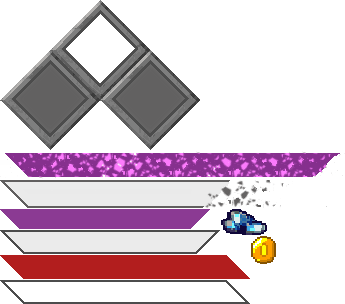
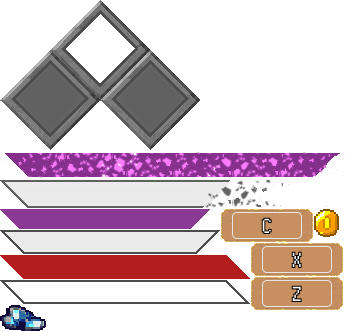
新增ZXC選擇任務、修改強化UI

diff --git a/bin/js/bundle.js b/bin/js/bundle.js
@@ -491,15 +491,8 @@
             let confirmIcon = new Laya.Button();
             confirmIcon.width = 100;
             confirmIcon.height = 50;
-            confirmIcon.loadImage("UI/chioce_mission_button_Bright.png");
             confirmIcon.pos(171 + 173 + col * (256 + 34), 458 + 96);
-            confirmIcon.on(Laya.Event.MOUSE_MOVE, this, () => {
-                confirmIcon.loadImage("UI/chioce_mission_button_Dark.png");
-            });
-            confirmIcon.on(Laya.Event.MOUSE_OUT, this, () => {
-                confirmIcon.loadImage("UI/chioce_mission_button_Bright.png");
-            });
-            confirmIcon.on(Laya.Event.CLICK, this, () => {
+            let confirmFunc = () => {
                 this.clearMissionUI();
                 this.sendMissionData(data);
                 if (Village.isNewbie) {
@@ -519,7 +512,29 @@
                         Laya.Scene.open('Loading2.scene', true);
                     }
                 }
+            };
+            switch (col) {
+                case 0:
+                    confirmIcon.loadImage("UI/Zbtn.png");
+                    break;
+                case 1:
+                    confirmIcon.loadImage("UI/Xbtn.png");
+                    break;
+                case 2:
+                    confirmIcon.loadImage("UI/Cbtn.png");
+                    break;
+                default:
+                    break;
+            }
+            confirmIcon.off(Laya.Event.CLICK && Laya.Event.KEY_DOWN, this, confirmFunc);
+            confirmIcon.on(Laya.Event.CLICK, this, confirmFunc);
+            confirmIcon.on(Laya.Event.KEY_DOWN, this, (e) => {
+                if (e.keyCode === 90 || e.keyCode === 88 || e.keyCode === 67) {
+                    console.log(data);
+                    confirmFunc();
+                }
             });
+            Laya.stage.focus = confirmIcon;
             this.confirmIcons.push(confirmIcon);
         }
         generateMissionData(total) {
@@ -581,6 +596,7 @@
     }
     MissionManager.missionRound = 0;
     MissionManager.missionDataPool = [];
+    MissionManager.hasSetBtn = false;
 
     var CharacterStatus;
     (function (CharacterStatus) {
@@ -2466,6 +2482,7 @@
             this.m_canJump = true;
             this.m_canAttack = true;
             this.m_canSprint = true;
+            this.m_sprintCdTimer = null;
             this.m_atkTimer = null;
             this.m_atkStep = 0;
             this.m_hurted = false;
@@ -2720,11 +2737,13 @@
                 };
                 this.updateSprintCdTimer();
                 Laya.stage.frameOnce(30, this, sprintDone);
-                Laya.stage.frameOnce(180, this, () => { this.m_canSprint = true; });
                 this.m_canSprint = false;
                 Laya.Tween.to(this.m_animation, { alpha: 0.35 }, 10, Laya.Ease.linearInOut, Laya.Handler.create(this, () => {
                     Laya.Tween.to(this.m_animation, { alpha: 0.35 }, 150, Laya.Ease.linearInOut, Laya.Handler.create(this, () => { this.m_animation.alpha = 1; }), 0);
                 }), 0);
+                setTimeout(() => {
+                    this.m_canSprint = true;
+                }, 3000);
                 this.setSound(0.6, "Audio/Misc/dash.wav", 1);
             }
             if (this.m_keyDownList[39]) {
@@ -2739,6 +2758,7 @@
                     this.updateAnimation(this.m_state, CharacterStatus.run, null, false, 100);
             }
             if (this.m_keyDownList[40]) {
+                new Village().showReinforceUI();
             }
             if (this.m_keyDownList[32]) {
             }
@@ -3085,15 +3105,18 @@
         }
         updateSprintCdTimer() {
             this.m_sprintCdCount = 3;
-            let sprintTimer = () => {
+            if (this.m_sprintCdTimer) {
+                clearInterval(this.m_sprintCdTimer);
+            }
+            this.m_sprintCdTimer = setInterval(() => {
                 if (this.m_canSprint) {
+                    clearInterval(this.m_sprintCdTimer);
+                    this.m_sprintCdTimer = null;
                     this.m_sprintCdCount = 0;
-                    Laya.timer.clear(this, sprintTimer);
                     return;
                 }
                 this.m_sprintCdCount = !this.m_canSprint ? (this.m_sprintCdCount - 1) : 0;
-            };
-            Laya.stage.frameLoop(60, this, sprintTimer);
+            }, 1000);
         }
         getEnemyAttackDamage(tag) {
             let enemyInit = new EnemyInit();
@@ -3147,18 +3170,20 @@
             this.m_oathManager.clearAddDebuffTimer();
         }
         resetMobileBtnEvent() {
-            this.m_mobileLeftBtn.off(Laya.Event.MOUSE_DOWN, this, () => { this.m_mobileLeftBtnClicked = true; });
-            this.m_mobileLeftBtn.off(Laya.Event.MOUSE_UP, this, this.mobileLeftBtnResetFunc);
-            this.m_mobileLeftBtn.off(Laya.Event.MOUSE_OUT, this, this.mobileLeftBtnResetFunc);
-            this.m_mobileRightBtn.off(Laya.Event.MOUSE_DOWN, this, () => { this.m_mobileRightBtnClicked = true; });
-            this.m_mobileRightBtn.off(Laya.Event.MOUSE_UP, this, this.mobileRightBtnResetFunc);
-            this.m_mobileRightBtn.off(Laya.Event.MOUSE_OUT, this, this.mobileRightBtnResetFunc);
-            this.m_mobileAtkBtn.off(Laya.Event.CLICK, this, this.mobileAtkBtnFunc);
-            this.m_mobileSprintBtn.off(Laya.Event.MOUSE_DOWN, this, this.mobileSprintBtnFunc);
-            this.m_mobileSprintBtn.off(Laya.Event.MOUSE_UP, this, () => { this.m_mobileSprintBtnClicked = false; });
-            this.m_mobileCatSkillBtn.off(Laya.Event.CLICK, this, this.mobileCatSkillBtnFunc);
-            this.m_mobileHumanSkillBtn.off(Laya.Event.CLICK, this, this.mobileHumanSkillBtnFunc);
-            this.m_mobileUIToggle = false;
+            if (Laya.Browser.onMobile) {
+                this.m_mobileLeftBtn.off(Laya.Event.MOUSE_DOWN, this, () => { this.m_mobileLeftBtnClicked = true; });
+                this.m_mobileLeftBtn.off(Laya.Event.MOUSE_UP, this, this.mobileLeftBtnResetFunc);
+                this.m_mobileLeftBtn.off(Laya.Event.MOUSE_OUT, this, this.mobileLeftBtnResetFunc);
+                this.m_mobileRightBtn.off(Laya.Event.MOUSE_DOWN, this, () => { this.m_mobileRightBtnClicked = true; });
+                this.m_mobileRightBtn.off(Laya.Event.MOUSE_UP, this, this.mobileRightBtnResetFunc);
+                this.m_mobileRightBtn.off(Laya.Event.MOUSE_OUT, this, this.mobileRightBtnResetFunc);
+                this.m_mobileAtkBtn.off(Laya.Event.CLICK, this, this.mobileAtkBtnFunc);
+                this.m_mobileSprintBtn.off(Laya.Event.MOUSE_DOWN, this, this.mobileSprintBtnFunc);
+                this.m_mobileSprintBtn.off(Laya.Event.MOUSE_UP, this, () => { this.m_mobileSprintBtnClicked = false; });
+                this.m_mobileCatSkillBtn.off(Laya.Event.CLICK, this, this.mobileCatSkillBtnFunc);
+                this.m_mobileHumanSkillBtn.off(Laya.Event.CLICK, this, this.mobileHumanSkillBtnFunc);
+                this.m_mobileUIToggle = false;
+            }
         }
         showMobileUI(player) {
             this.m_mobileUIToggle = true;
@@ -3286,11 +3311,12 @@
                 };
                 this.updateSprintCdTimer();
                 Laya.stage.frameOnce(30, this, sprintDone);
-                Laya.stage.frameOnce(180, this, () => { this.m_canSprint = true; });
+                setTimeout(() => { this.m_canSprint = true; }, 3000);
                 this.m_canSprint = false;
                 Laya.Tween.to(this.m_animation, { alpha: 0.35 }, 10, Laya.Ease.linearInOut, Laya.Handler.create(this, () => {
                     Laya.Tween.to(this.m_animation, { alpha: 0.35 }, 150, Laya.Ease.linearInOut, Laya.Handler.create(this, () => { this.m_animation.alpha = 1; }), 0);
                 }), 0);
+                this.setSound(0.6, "Audio/Misc/dash.wav", 1);
             };
             this.m_mobileSprintBtn.on(Laya.Event.MOUSE_DOWN, this, this.mobileSprintBtnFunc);
             this.m_mobileSprintBtn.on(Laya.Event.MOUSE_UP, this, () => { this.m_mobileSprintBtnClicked = false; });

diff --git a/src/script/MissionManager.ts b/src/script/MissionManager.ts
@@ -10,6 +10,7 @@ export default class MissionManager extends Laya.Script {
     // public static playerMissionData: object = {"round": 0, };
     public static missionRound = 0;
     public static missionDataPool: any = [];
+    public static hasSetBtn: boolean = false;
 
     missionNum: number = 3;
 
@@ -21,8 +22,10 @@ export default class MissionManager extends Laya.Script {
     moneyNums: Laya.Text[] = [];
     confirmIcons: Laya.Button[] = [];
 
+
+    // currentBtn: number = 1;
+
     onStart() {
-        // this.generateMissionData(9);
     }
     public firstEnter(): void{
         MissionManager.missionDataPool = []
@@ -121,19 +124,12 @@ export default class MissionManager extends Laya.Script {
         
         confirmIcon.width = 100;
         confirmIcon.height = 50;
-        confirmIcon.loadImage("UI/chioce_mission_button_Bright.png")
+        // confirmIcon.loadImage("UI/chioce_mission_button_Bright.png")
         confirmIcon.pos(171 + 173 + col * (256 + 34), 458 + 96);
-        confirmIcon.on(Laya.Event.MOUSE_MOVE, this, () => {
-            confirmIcon.loadImage("UI/chioce_mission_button_Dark.png");
-        })
-        confirmIcon.on(Laya.Event.MOUSE_OUT, this, () => {
-            confirmIcon.loadImage("UI/chioce_mission_button_Bright.png");
-        })
-        confirmIcon.on(Laya.Event.CLICK, this, () => {
+
+        let confirmFunc = () =>{
             this.clearMissionUI();
-            // console.log(data["enemyNum"]);
             this.sendMissionData(data);
-            // Laya.Scene.load
             if (Village.isNewbie) {
                 // Laya.Scene.open("Newbie.scene");
                 Loading2.nextSceneName = 'Newbie.scene';
@@ -153,7 +149,36 @@ export default class MissionManager extends Laya.Script {
                     Laya.Scene.open('Loading2.scene', true);
                 }
             }
-        })
+        }
+        switch (col) {
+            case 0:
+                confirmIcon.loadImage("UI/Zbtn.png")
+                break;
+            case 1:
+                confirmIcon.loadImage("UI/Xbtn.png")
+                break;
+            case 2:
+                confirmIcon.loadImage("UI/Cbtn.png")
+                break;
+            default:
+                break;
+        }
+        // confirmIcon.on(Laya.Event.MOUSE_MOVE, this, () => {
+        //     confirmIcon.loadImage("UI/chioce_mission_button_Dark.png");
+        // })
+        // confirmIcon.on(Laya.Event.MOUSE_OUT, this, () => {
+        //     confirmIcon.loadImage("UI/chioce_mission_button_Bright.png");
+        // })
+        confirmIcon.off(Laya.Event.CLICK && Laya.Event.KEY_DOWN, this, confirmFunc);
+
+        confirmIcon.on(Laya.Event.CLICK, this, confirmFunc);
+        confirmIcon.on(Laya.Event.KEY_DOWN, this, (e: Laya.Event)=>{
+            if(e.keyCode === 90 || e.keyCode === 88 || e.keyCode === 67){
+                console.log(data);
+                confirmFunc();
+            }
+        });
+        Laya.stage.focus = confirmIcon;
         this.confirmIcons.push(confirmIcon);
     }
     public generateMissionData(total: number): any[] {
